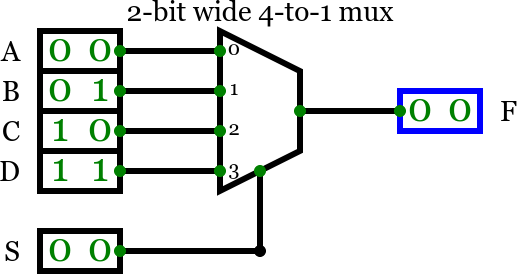
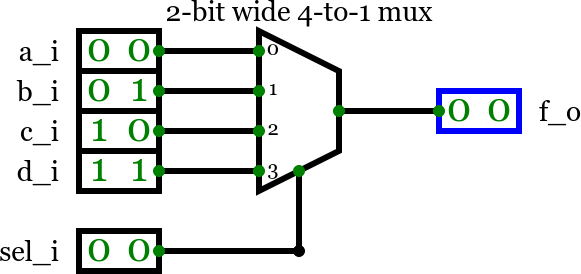
[IMG] Screenshot added

Changed region(s): [[0.0, 0.0, 0.7737, 0.9343], [0.0, 0.8175, 0.3095, 1.0], [0.7427, 0.3212, 1.0, 0.4964]]

diff --git a/Labs/03-vivado/README.md b/Labs/03-vivado/README.md
@@ -4,6 +4,8 @@
 
 The purpose of this laboratory exercise is to learn to use Vivado to create a simple HDL design targeting Nexys A7 Artix-7 FPGA Trainer Board.
 
+![Screenshot od Vivado](Images/screenshot_vivado.png)
+
 
 ## Preparation tasks (done before the lab at home)
 
@@ -51,7 +53,7 @@ README.md
 
 Get inspired by the [Creating and Programming our First FPGA Project Part 2: Initial Project Creation](https://blog.digilentinc.com/creating-and-programming-our-first-fpga-project-part-2-initial-project-creation/) tutorial and create a new project in Vivado. Unlike the instructions, let your project contains:
 
-   * VHDL source file: `comparator_2bit`
+   * VHDL source file: `comparator_2bit` (the same file name as the entity)
    * Created constraints XDC file: `nexys-a7-50t`
    * Default board : `Nexys A7-50T`
 
@@ -59,33 +61,33 @@ Copy/paste your EDA Playground `design.vhd` code from the previous exercise to `
 
 The Nexys A7 board have hardwired connections between FPGA chip and the switches and LEDs. To use these devices it is necessary to include in your project the correct pin assignments. Copy/paste constraints from [Nexys-A7-50T-Master.xdc](https://github.com/Digilent/digilent-xdc) to `nexys-a7-50t.xdc` file. The pin assignments in the file are useful only if the pin names that appear in this file are exactly the same as the port names used in your VHDL entity.
 
-Use **Add Sources** > **Add or create simulation sources** and create a new VHDL file `tb_comparator_2bit`. Copy/pase your EDA Playground `testbench.vhd` code from previous exercise to `tb_comparator_2bit.vhd` file.
+Use **File** > **Add Sources Alt+A** > **Add or create simulation sources** and create a new VHDL file `tb_comparator_2bit` (same filename as tested entity with prefix `tb_`). Copy/pase your EDA Playground `testbench.vhd` code from previous exercise to `tb_comparator_2bit.vhd` file.
 
-Use **SIMULATION** > **Run Simulation** > **Run Behavioral Simulation** and run Vivado simulator.
+Use **Flow** > **Run Simulation** > **Run Behavioral Simulation** and run Vivado simulator.
 
 Get inspired by the [Creating and Programming our First FPGA Project Part 4](https://blog.digilentinc.com/creating-and-programming-our-first-fpga-project-part-4/) tutorial, compile and download circuit into the FPGA chip.
 
 
-## Part 3: Multiplexer in VHDL language
+## Part 3: Multiplexer
 
-A multiplexer (MUX) is a device that has multiple inputs and a single line output. The select lines determine which input is connected to the output. Consider a circuit in which the 2-bit output F[1:0] has to be selected from four inputs A[1:0], B[1:0], C[1:0], and D[1:0]. The circuit uses a 2-bit select input S[1:0] and implements the following  truth table.
+A multiplexer (MUX) is a device that has multiple inputs and a single line output. The select lines determine which input is connected to the output. Consider a circuit in which the 2-bit output f_o[1:0] has to be selected from four inputs a_i[1:0], b_i[1:0], c_i[1:0], and d_i[1:0]. The circuit uses a 2-bit select input sel_i[1:0] and implements the following truth table.
 
-| **Select S[1:0]** | **Output F[1:0]** |
+| **Select sel_i[1:0]** | **Output f_o[1:0]** |
 | :-: | :-: |
-| 0 0 | A[1:0] |
-| 0 1 | B[1:0] |
-| 1 0 | C[1:0] |
-| 1 1 | D[1:0] |
+| 0 0 | a_i[1:0] |
+| 0 1 | b_i[1:0] |
+| 1 0 | c_i[1:0] |
+| 1 1 | d_i[1:0] |
 
 ![Circuit symbol for two-bit wide 4-to-1 multiplexer](Images/mux_4to1.png)
 
 Perform the following steps to implement the two-bit wide 4-to-1 multiplexer. Take screenshots and make your own README tutorial on how to create a Vivado project, how to run a simulation and how to program an FPGA on board Nexys A7.
 
    1. Create a new Vivado project for your circuit.
-   2. Create a VHDL entity `mux_2bit_4to1` for the two-bit wide 4-to-1 multiplexer. 
-   3. Create a testbench and simulate the circuit. 
-   4. Make pin assignments for the Nexys A7 board: connect mux select inputs S[1:0] to slide switches SW[15:14] and use switches SW[7:0] to provide the four inputs A[1:0] to D[1:0]. Connect output F[1:0] to leds LD[15:14].
-   5. Compile the project and download the compiled circuit into the FPGA chip.
+   2. Create a VHDL entity `mux_2bit_4to1` for the two-bit wide 4-to-1 multiplexer.
+   3. Create a testbench `tb_mux_2bit_4to1` and simulate the circuit.
+   4. Make pin assignments for the Nexys A7 board in `nexys-a7-50t.xdc`: connect mux select inputs sel_i[1:0] to slide switches SW[15:14] and use switches SW[7:0] to provide the four inputs a_i[1:0] to d_i[1:0]. Connect output f_o[1:0] to leds LD[15:14].
+   5. Compile the project and download the generated bitstream into the FPGA chip.
    6. Test the functionality of the two-bit wide 4-to-1 multiplexer by toggling the switches and observing the LEDs.
 
 
@@ -119,8 +121,12 @@ $ git status
 
 ## Lab assignment
 
-1. A Vivado tutorial. Submit:
+1. Two-bit wide 4-to-1 multiplexer. Submit:
     * VHDL code of two-bit wide 4-to-1 multiplexer (`mux_2bit_4to1.vhd`),
+    * VHDL testbench (`tb_mux_2bit_4to1.vhd`),
+    * XDC constraints file (`nexys-a7-50t.xdc`).
+
+2. A Vivado tutorial. Submit:
     * link to your README file with Vivado tutorial.
 
 The deadline for submitting the assignment is before the start of the next laboratory exercise. Use [BUT e-learning](https://moodle.vutbr.cz/) web page and submit a single PDF file.
